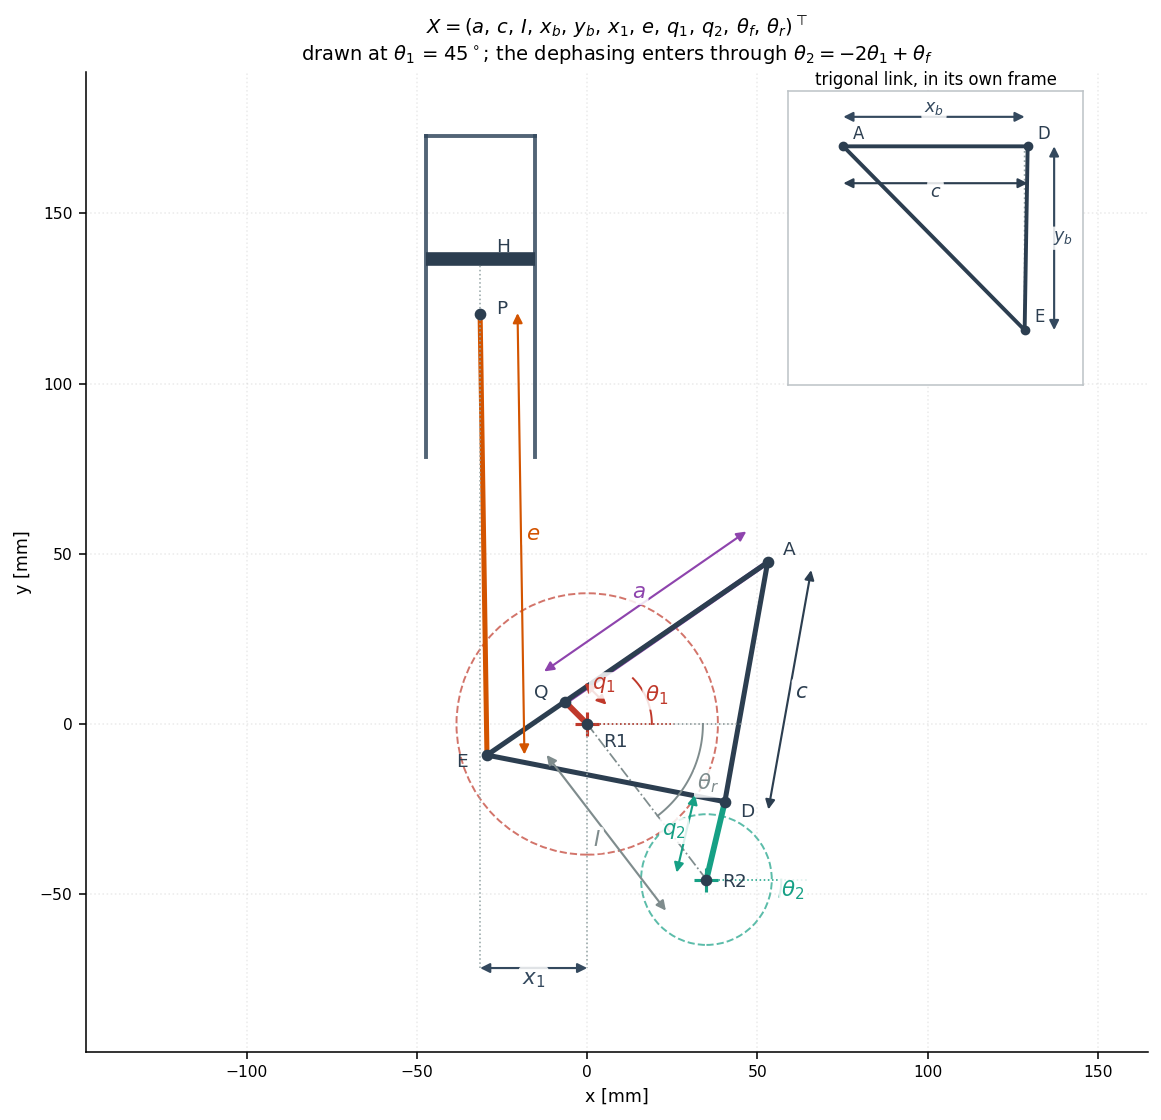
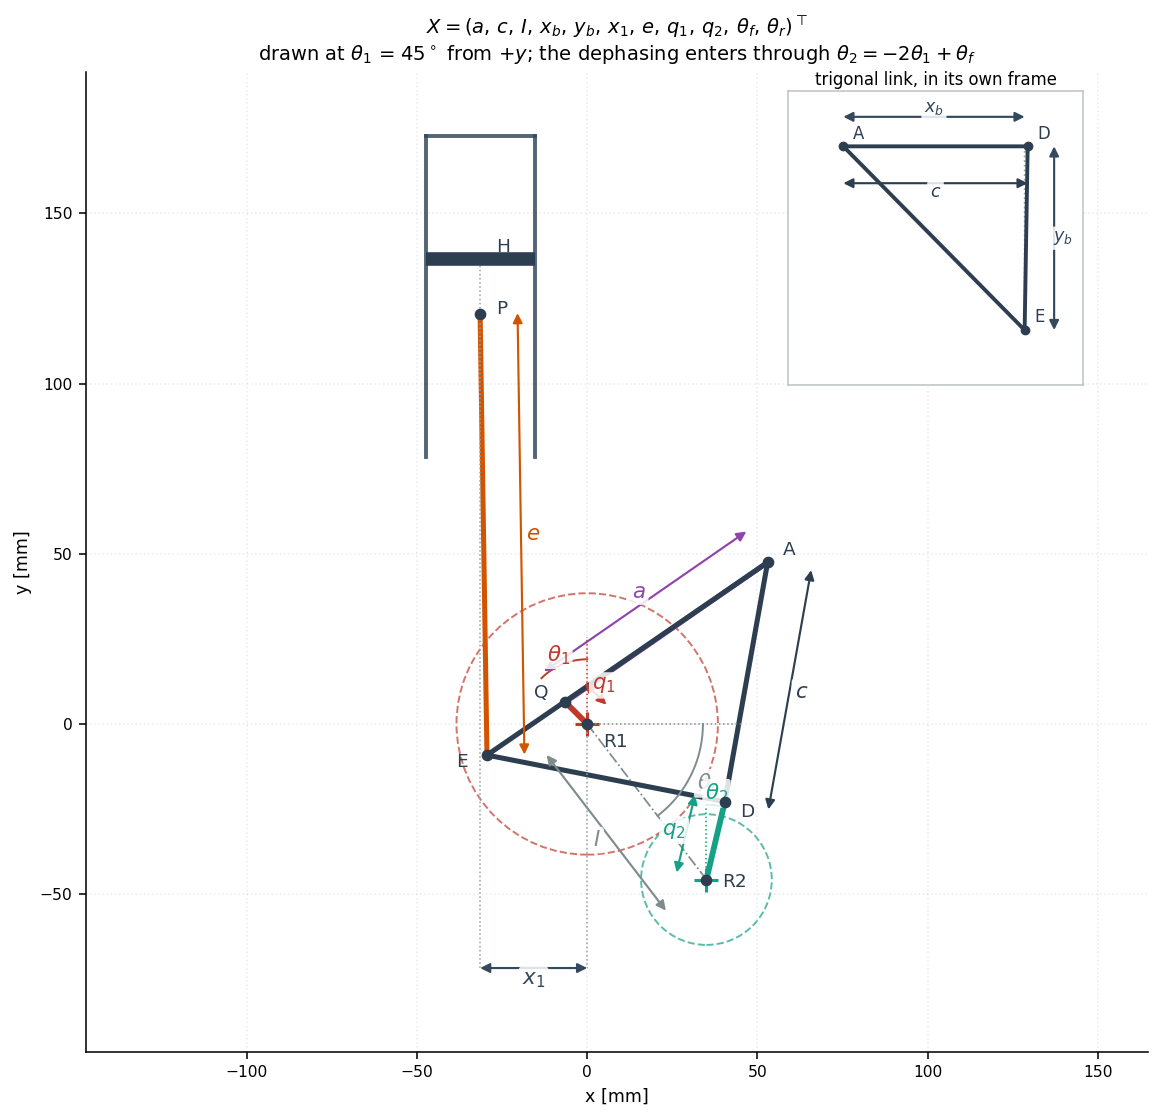
Draw the crank angles from the axis they are actually measured from
theta_1 and theta_2 are referred to +y, not +x: the loop closure carries
q_1 sin(theta_1) in its x-projection and -q_1 cos(theta_1) in its y-projection,
and at theta_1 = 0 the crank points straight up. plot_variables swept both arcs
from +x, which put each one a right angle away from the member it was meant to
measure. theta_r is referred to +x, which is presumably how the mistake got in.

The theory appendix never stated either datum, so it could not have caught this.
It does now, and a test pins the convention against the kinematics -- crank
direction against theta_1 and theta_2, R2's position against theta_r -- so a
drawing and the derivations cannot drift from the code again.

Section 5.2 now opens with the parametrisation figure from the study this
problem comes from, and the triangle figure that goes with the x_b, y_b
substitution. They carry what a generated view does not: p, the sides b and d,
and both gear pitch radii. The corrected generated figure follows, as the same
eleven variables on the design section 6.4 arrives at, to scale rather than
schematic.

Claude-Session: https://claude.ai/code/session_01VzmaTF7ngg44AC6Wt7P73y

diff --git a/src/exlink/plots.py b/src/exlink/plots.py
@@ -341,10 +341,27 @@ def _angle_arc(
     label: str,
     radius: float = 26.0,
     colour: str = "#7f8c8d",
+    datum: float = 0.0,
 ) -> None:
-    """Draw an arc from the +x direction to ``angle`` and label it."""
+    """Draw an arc from ``datum`` to ``datum + angle`` and label it.
+
+    The datum is not always ``+x``, and getting it wrong is how a drawing ends
+    up with an arc that does not touch the member it measures.  ``theta_r`` is
+    referred to ``+x``; ``theta_1`` and ``theta_2`` are referred to ``+y``, as
+    the ``q_1 sin(theta_1)`` and ``-q_1 cos(theta_1)`` of the loop closure in
+    :mod:`exlink.kinematics` say.
+
+    Args:
+        ax: Axes to draw on.
+        centre: Vertex of the angle [mm].
+        angle: Signed opening from ``datum`` [rad].
+        label: Text for the arc, normally a LaTeX symbol.
+        radius: Arc radius [mm].
+        colour: Line and text colour.
+        datum: Direction the angle is measured from [rad].
+    """
     origin = np.asarray(centre, dtype=float)
-    sweep = np.linspace(0.0, angle, 64)
+    sweep = datum + np.linspace(0.0, angle, 64)
     ax.plot(
         origin[0] + radius * np.cos(sweep),
         origin[1] + radius * np.sin(sweep),
@@ -354,14 +371,15 @@ def _angle_arc(
         zorder=7,
     )
     ax.plot(
-        [origin[0], origin[0] + 1.35 * radius],
-        [origin[1], origin[1]],
+        [origin[0], origin[0] + 1.35 * radius * np.cos(datum)],
+        [origin[1], origin[1] + 1.35 * radius * np.sin(datum)],
         color=colour,
         lw=0.8,
         ls=":",
         zorder=6,
     )
-    tip = origin + 1.16 * radius * np.array([np.cos(0.5 * angle), np.sin(0.5 * angle)])
+    middle = datum + 0.5 * angle
+    tip = origin + 1.16 * radius * np.array([np.cos(middle), np.sin(middle)])
     ax.text(
         float(tip[0]),
         float(tip[1]),
@@ -554,8 +572,18 @@ def plot_variables(
         _dimension(ax, (0.0, datum), (design.x_1, datum), r"$x_1$", colour="#34495e")
 
         # -- the two angles -------------------------------------------------------
+        # theta_r from +x; theta_1 and theta_2 from +y -- see _angle_arc.
+        upright = 0.5 * math.pi
         _angle_arc(ax, point["R1"], design.theta_r_rad, r"$\theta_r$", radius=34.0)
-        _angle_arc(ax, point["R1"], angle, r"$\theta_1$", radius=19.0, colour="#c0392b")
+        _angle_arc(
+            ax,
+            point["R1"],
+            angle,
+            r"$\theta_1$",
+            radius=19.0,
+            colour="#c0392b",
+            datum=upright,
+        )
         _angle_arc(
             ax,
             point["R2"],
@@ -563,6 +591,7 @@ def plot_variables(
             r"$\theta_2$",
             radius=22.0,
             colour="#16a085",
+            datum=upright,
         )
 
         ax.set_xlabel("x [mm]")
@@ -573,7 +602,7 @@ def plot_variables(
             "\n"
             r"drawn at $\theta_1$ = "
             f"{theta_1:.0f}"
-            r"$^\circ$;"
+            r"$^\circ$ from $+y$;"
             r" the dephasing enters through $\theta_2 = -2\theta_1 + \theta_f$"
         )
         figure.tight_layout()

diff --git a/tests/test_kinematics.py b/tests/test_kinematics.py
@@ -14,6 +14,36 @@ def kin():
     return solve(PUBLISHED_DESIGN, samples=720)
 
 
+def test_the_crank_angles_are_measured_from_the_y_axis() -> None:
+    """``theta_1`` and ``theta_2`` are referred to ``+y``, ``theta_r`` to ``+x``.
+
+    The loop closure carries ``q_1 sin(theta_1)`` in its x-projection and
+    ``-q_1 cos(theta_1)`` in its y-projection, which is exactly this convention
+    written down; nothing else in the module states it, and a figure that
+    assumes ``+x`` puts every crank arc a right angle away from the member it
+    measures.  Pinned here so the drawings and the derivations cannot drift
+    apart from the code.
+    """
+    design = PUBLISHED_DESIGN
+    for degrees in (0.0, 45.0, 90.0):
+        angle = np.radians(degrees)
+        frame = solve(design, theta_1=np.array([angle]))
+        crank = frame.Q[0] - frame.R1[0]
+        assert crank == pytest.approx(
+            design.q_1 * np.array([-np.sin(angle), np.cos(angle)]), abs=1e-9
+        )
+        throw = frame.D[0] - frame.R2[0]
+        second = float(frame.theta_2[0])
+        assert throw == pytest.approx(
+            design.q_2 * np.array([-np.sin(second), np.cos(second)]), abs=1e-9
+        )
+        # theta_r, by contrast, is the direction of R1 -> R2 from +x.
+        assert frame.R2[0] == pytest.approx(
+            design.I * np.array([np.cos(design.theta_r_rad), np.sin(design.theta_r_rad)]),
+            abs=1e-9,
+        )
+
+
 def test_every_link_keeps_its_length(kin) -> None:
     """The whole point of a rigid linkage: no bar may stretch.
 

diff --git a/docs/use_case.md b/docs/use_case.md
@@ -59,15 +59,33 @@ the cylinder is at plenum pressure and the piston carries no gas load.
 
 **Design variables** — `X = (a, c, I, x_b, y_b, x_1, e, q_1, q_2, θ_f, θ_r)ᵀ`
 
-![the eleven design variables dimensioned on the mechanism](figures/variables.png)
+![the parametrisation of the mechanism](figures/parametrisation.png)
 
-*Where each entry of `X` sits. The linkage is frozen at `θ₁ = 45°`: `R1` is the
-half-speed shaft, `R2` the crankshaft, and the two dashed circles are the gear
-pitch radii `r₁ = 2I/3` and `r₂ = I/3`. The dephasing `θ_f` is not a length or a
-direction on the drawing but the constant in `θ₂ = −2θ₁ + θ_f`, so both angles
-are marked. `x_b` and `y_b` are drawn in the inset, in the frame carried by
-`AD`, because on the mechanism they fall on top of `c`. Regenerate with `exlink
-plot`.*
+*The parametrisation, from the study this problem comes from (see Provenance).
+`R1` carries the crank `q₁` ending at `Q` and the large gear of pitch radius
+`r₁ = 2I/3`; `R2` carries `q₂` ending at `D` and the small gear `r₂ = I/3`, and
+sits at distance `I` in the direction `θ_r` measured from `+x`. The swing rod
+`a` runs `Q → A`, the trigonal link is the triangle `A–D–E` with sides `b`, `c`,
+`d`, the piston rod `e` runs `E → P`, and the crown `H` sits `p = 16 mm` above
+`P` on the cylinder axis, offset `x₁` from the `R1` axis. Ten of the eleven are
+here; the eleventh, the dephasing `θ_f`, cannot be drawn on a single pose,
+being the constant in `θ₂ = −2θ₁ + θ_f` — and `θ₁` and `θ₂`, the crank angles
+that constant relates, are measured from `+y` rather than from `+x`
+({doc}`theory` §1).*
+
+![E in the frame the trigonal link carries](figures/trigonal_frame.png)
+
+*Two of the eleven replace `b` and `d`. Describing the triangle by its three
+sides would force the design space to respect the triangle inequality and would
+leave the sign of the apex undetermined; placing `E` at `(x_b, y_b)` in the
+frame with origin `A` and first axis along `AD` lets both range freely over ℝ
+and makes the design space a plain box ({doc}`theory` §1).*
+
+![the same variables on the design of §6.4](figures/variables.png)
+
+*The same eleven on `RELIABLE_DESIGN`, the design §6.4 arrives at, frozen at
+`θ₁ = 45°` — proportions to scale rather than schematic, which is why `q₁` is so
+much shorter than the sketch above suggests. Regenerate with `exlink plot`.*
 
 | | |
 |---|---|

diff --git a/README.md b/README.md
@@ -90,9 +90,9 @@ print(outcome.budget.kilograms())    # where the mass actually is
 The mechanism and the design brief come from an unpublished student study by the author
 (Université de Technologie de Compiègne, 2015), which set up the kinematics, the idealised
 cycle, the quasi-static load chain and the efficiency measure, and solved the quasi-static
-problem in MATLAB. Everything needed to read, run and check this repository is restated here
-and in [docs/theory.md](docs/theory.md); the document itself is not a citable reference and
-nothing here depends on it.
+problem in MATLAB. Everything needed to read, run and check this repository is restated here;
+the document itself is not a citable reference, and the only things taken from it directly are
+the two parametrisation figures of §5.2 and the two design vectors below.
 
 Two designs carry over from that study as **historical baselines**, and they are labelled as
 such wherever they appear:

diff --git a/docs/implementation.md b/docs/implementation.md
@@ -145,9 +145,10 @@ crankshaft so the comparison needs no firing-rate correction.
 The mechanism and the design brief come from an unpublished student study by the author
 (Université de Technologie de Compiègne, 2015), which set up the kinematics, the idealised
 cycle, the quasi-static load chain and the efficiency measure, and solved the quasi-static
-problem in MATLAB. Everything needed to read, run and check this repository is restated here
-and in {doc}`theory`; the document itself is not a citable reference and
-nothing here depends on it.
+problem in MATLAB. Everything needed to read, run and check this repository is
+restated here; the document itself is not a citable reference, and the only
+things taken from it directly are the two parametrisation figures of §5.2 and
+the two design vectors below.
 
 Two designs carry over from that study as **historical baselines**, and they are labelled as
 such wherever they appear:

diff --git a/docs/theory.md b/docs/theory.md
@@ -50,6 +50,13 @@ power alone. The swing rod `a` runs `Q → A`; the **trigonal link** is the
 rigid triangle `A–D–E`; the piston rod `e` runs `E → P`; the piston crown `H` sits
 `p = 16 mm` above `P`, on the cylinder axis `x = x₁`.
 
+**Angle datums.** `θ_r` is measured from `+x`, but the two crank angles `θ₁` and
+`θ₂` are measured from **`+y`**, so that `R1 → Q = q₁(−sin θ₁, cos θ₁)` and
+`θ₁ = 0` puts the crank straight up. That is what the `q₁ sin θ₁` and
+`−q₁ cos θ₁` of the loop closure (3a) below are saying, and it is easy to read
+past: an arc drawn from `+x` instead misses the member it is meant to measure by
+a right angle.
+
 Describing the triangle by its three sides `b`, `c`, `d` would force the design
 space to respect the triangle inequality, and would leave the sign of `θ_b`
 undetermined. `E` is therefore placed in the frame carried by `c = AD`:
